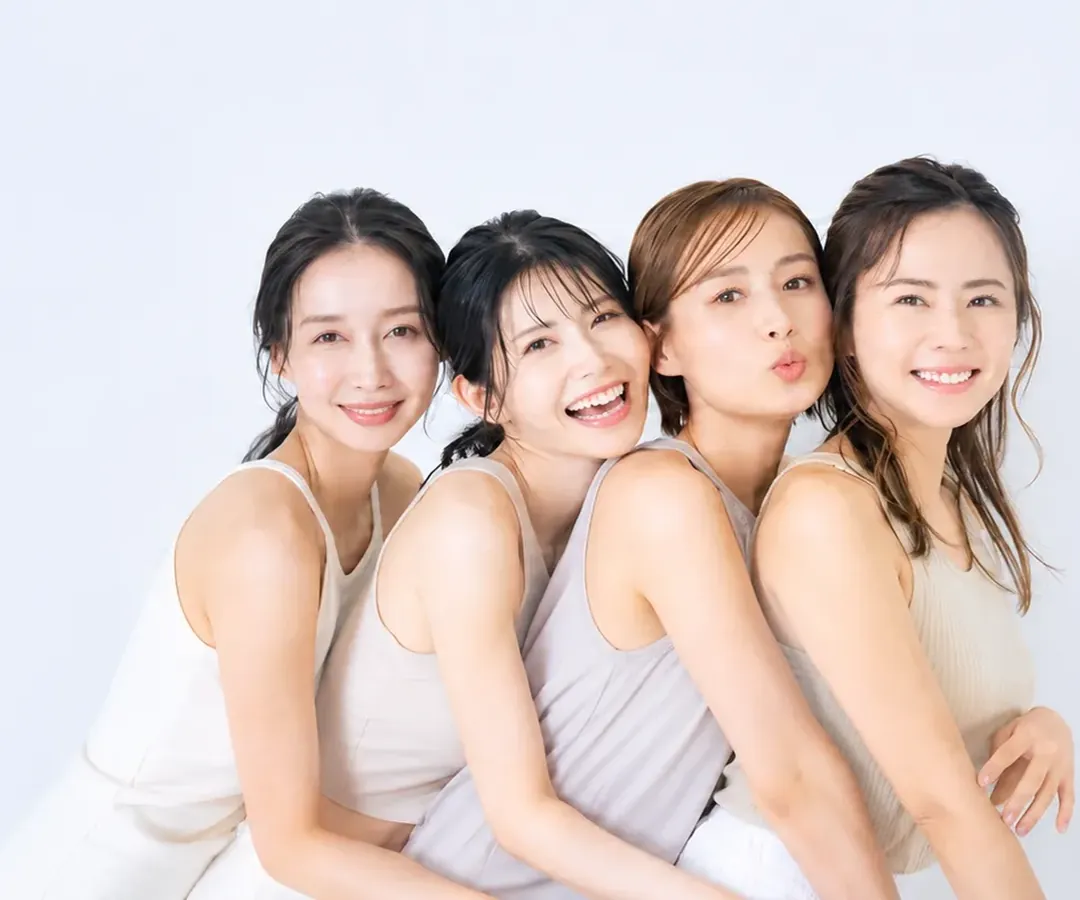
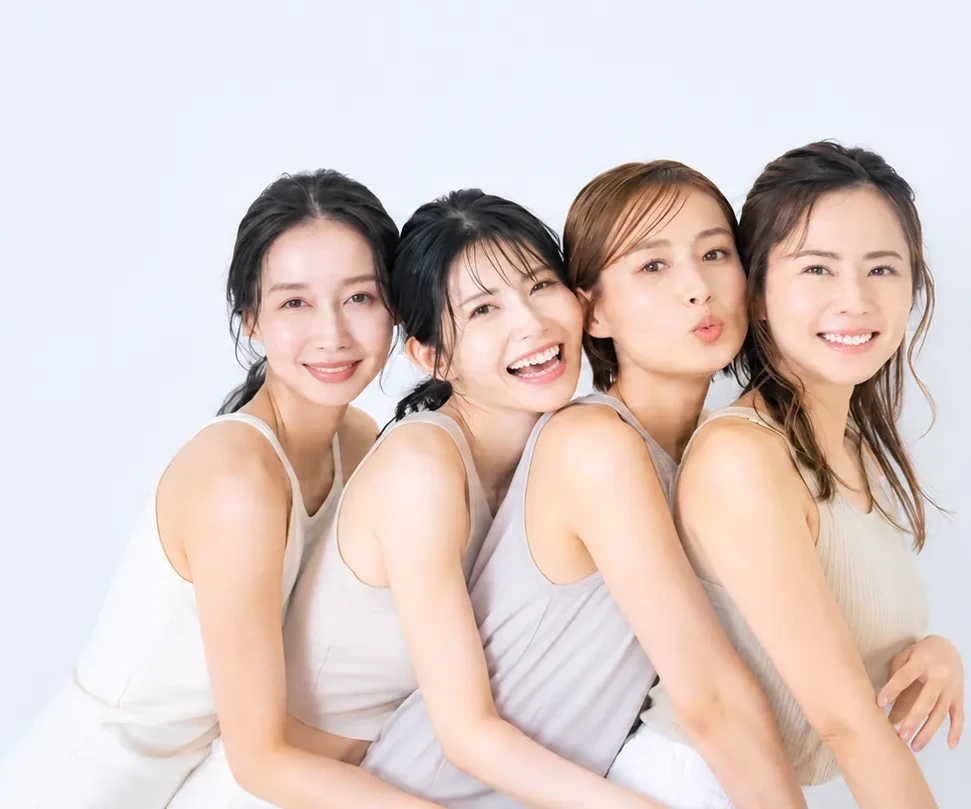
Ship hero photographs unrecompressed, native-size phone crops (v1.35)
Claude-Session: https://claude.ai/code/session_01CRydHAmsbDXdNbR1hjEc7k

diff --git a/CLAUDE.md b/CLAUDE.md
@@ -6,6 +6,7 @@
 > **Scope: Phase 1 only.** Static, prerendered, no backend, chat and phone conversion. Phase 2A (admin + catalog + inquiry form) and Phase 2B (COA directory) are reserved in §16. Do not build Phase 2 now.
 > **Content ownership:** Altaventures builds the platform. All product listings, descriptions, documents, COAs, and their regulatory status are entered and owned by The Pep Stop (§12, Appendix B.1).
 
+**v1.35 · 2026-11-14**: Hero photograph quality. The three desktop hero files are now the supplied files byte for byte (they had been re-encoded at lower quality, which softened faces by about 10 percent on a sharpness measure), and the phone crops are cut at native size from the originals with no upscaling and a higher quality setting. The softness that remains is in the supplied photographs themselves (smooth, waxy skin and low native resolution for a 12:5 banner). Where earlier entries differ, this entry wins.
 **v1.34 · 2026-11-14**: Hero transition refined ("more elegant, and make that 5s"). Each slide now stays up 5 seconds (`HERO_INTERVAL_MS` 5000). The change is a slow 1.8 second fade on a soft ease while the incoming photograph settles from a 4.5 percent zoom over 6.5 seconds, and the outgoing one drifts back out as it leaves, so the two overlap in continuous motion instead of a flat dissolve. It uses opacity and transform only and is switched off under reduced motion. Where earlier entries differ, this entry wins.
 **v1.33 · 2026-11-14**: Hero slideshow ("add this to the hero, autoplay every 4 seconds"). The client supplied four wide hero photographs; the pink skincare portrait was dropped by direction, so three slides remain: the original five-women photograph, four women on a pale wall, and five women on a warm peach wall (`public/images/hero-{1,2,3}-{desktop,mobile}.webp`; the desktop files ship as supplied at 12:5 and the phone files are 6:5 crops cut on the group). The slides crossfade over one second and advance every 4 seconds (`HERO_INTERVAL_MS`). Pause and play button plus one dot per slide (44px targets) sit over the photograph, because moving content needs a stop control; a manual pick restarts the 4 second timer, the timer skips while the tab is hidden, and autoplay is off for visitors who ask for reduced motion. All slides are in the prerendered page (first one high priority), so the first paint is unchanged; slide 1 still honours the admin's hero image setting. The headline, sparkles and pointer depth are unchanged. Origin and licence of the new photographs are for the client to confirm (§6, §12.6). Where earlier entries differ, this entry wins.
 **v1.32 · 2026-11-14**: Admin panel interface redesign ("a better, more modern and professional UI for the admin"). Operate mode: calm, light and precise, with the brand held in the details. Sidebar: narrower, stroke icons (one weight) on every item, active item as a tinted pill with a gold icon, gold count badges, a "View website" link, and a user block with avatar initial and a log out icon button; on phones it becomes a compact top bar with a Menu button. Headings switch from the display serif to the sans (the serif stays for the wordmark and the sign-in headline) in ink rather than claret, so colour is reserved for actions, the active item and status. Cards 14px radius with a neutral hairline; buttons and fields 10px radius and 40px high on pointer devices (44px on touch); tables with a quiet header, subtle row hover and dot-style status badges; focus rings and field borders keep AA contrast. Dashboard lists (latest orders, registrations, activity) are two-line rows with the figure and date at the right. Fixed along the way: a broken row-hover rule in tables, and on phones the header no longer stretches to fill the screen. Where earlier entries differ, this entry wins.

diff --git a/HANDOVER.md b/HANDOVER.md
@@ -1,7 +1,7 @@
 # HANDOVER: The Pep Stop · Phase 1 (Public Website)
 
 **Built by:** Altaventures Business Development Services
-**Handover date:** 2026-11-11 · **Spec version built:** v1.34 (storefront added per client direction; logo and palette applied)
+**Handover date:** 2026-11-11 · **Spec version built:** v1.35 (storefront added per client direction; logo and palette applied)
 **Preview URL:** https://pepstop.altasmeworks.workers.dev (moved to the dedicated account 2026-11-13, noindex) · **Live URL:** not live: gates open · **Repo:** altasme/pepstop
 
 ## 1. What was delivered
